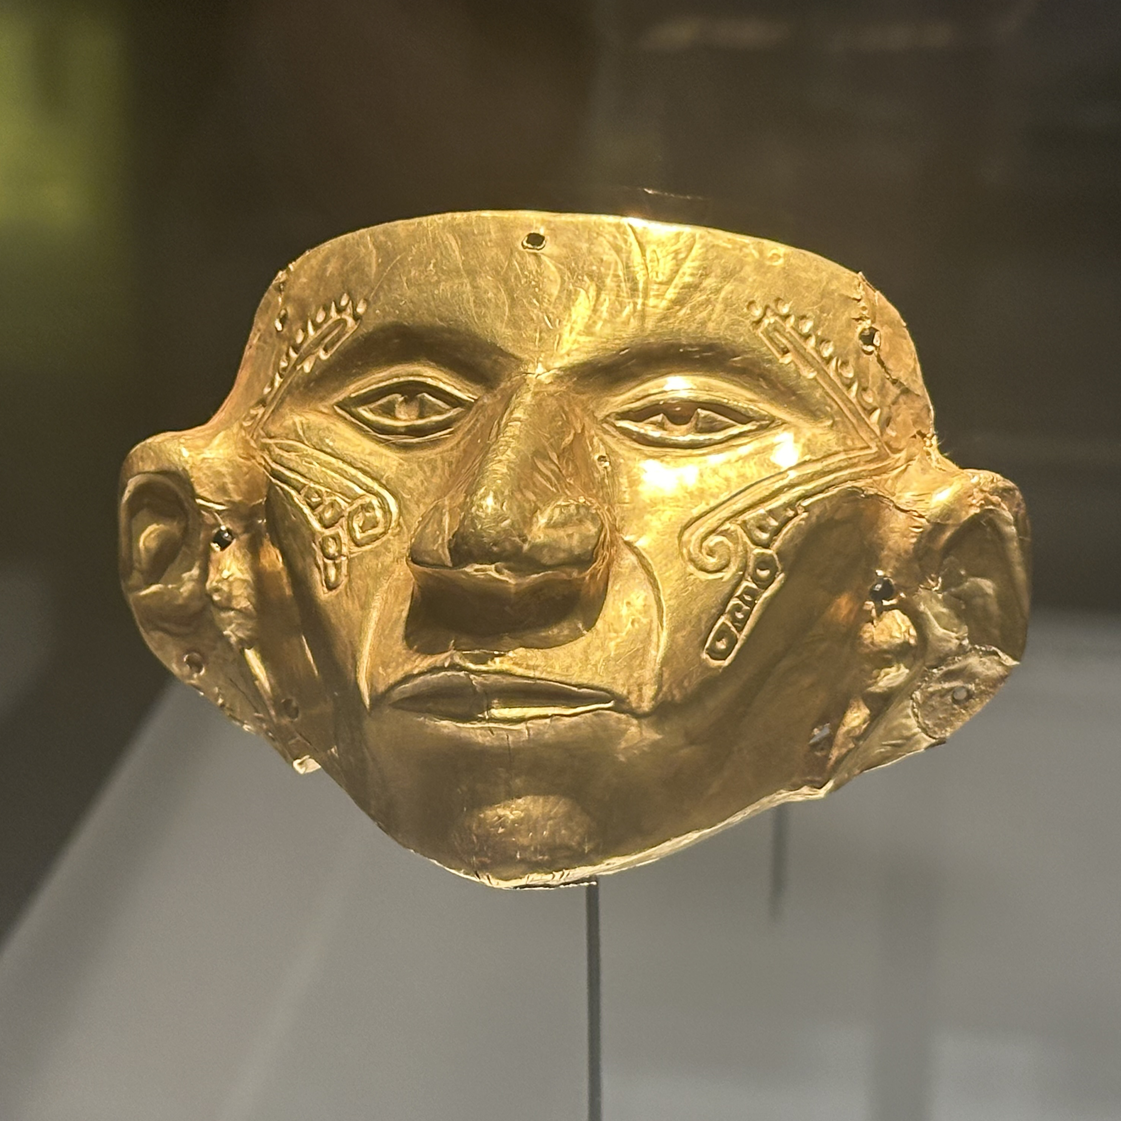
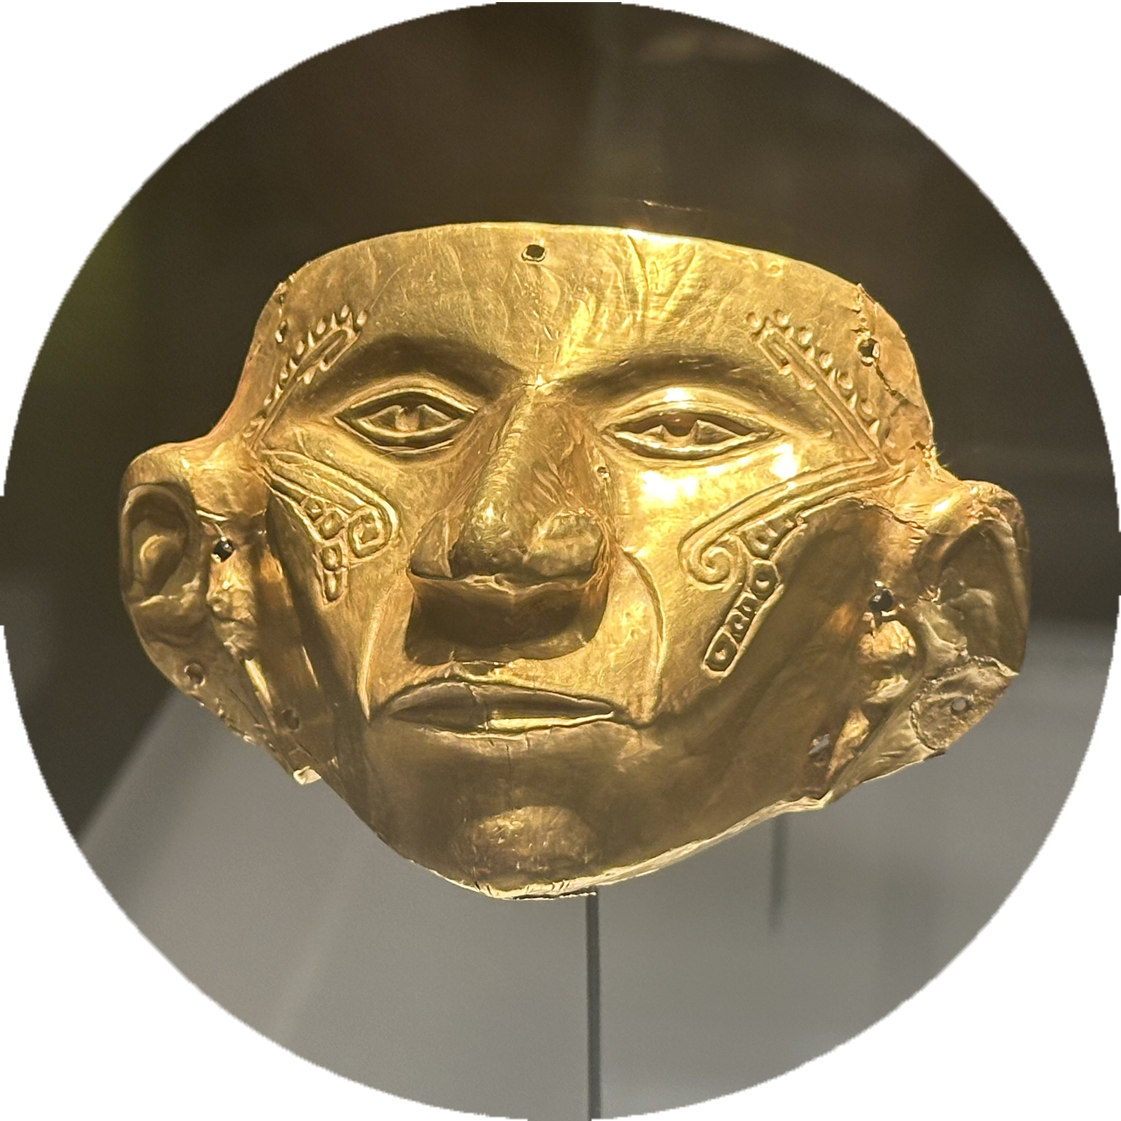
up

diff --git a/refont_st/assets/css/main.css b/refont_st/assets/css/main.css
@@ -303,13 +303,12 @@ form {
     position: relative;
     height: 184px;
     width: 184px;
+    border-radius: 50%;
     overflow: hidden;
     display: flex;
     justify-content: center;
     align-items: center;
 }
-
-
 
 .img-profile-picture {
     width: auto;
@@ -317,7 +316,6 @@ form {
     object-fit: cover;
     object-position: center;
 }
-
 
 .name,
 .age-container {
